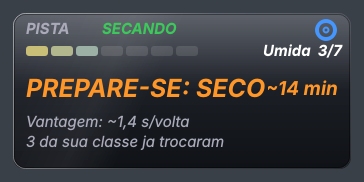
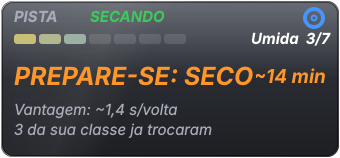
Atualiza prints do README e da documentacao para a 1.6.0
Claude-Session: https://claude.ai/code/session_012AaxQw3atEC5c8or6fjX6q

diff --git a/README.md b/README.md
@@ -17,11 +17,13 @@ Overlay gratuito e de código aberto para **iRacing** no Windows, com **24 janel
 | [`streamdeck/`](streamdeck) | Perfil para **Stream Deck XL**, biblioteca de ícones e gerador |
 | [`docs/`](docs) | Manual, guia do dash, guia do Stream Deck, arquitetura e histórico |
 
-## Novidades da 1.2.0: quatro overlays novos e a Telemetria unificada
+## Novidades da 1.6.0
 
-A janela **Telemetria** agora reúne tudo em uma só (rpm, marcha, pedais, volante e o gráfico de acelerador/freio com tempo ajustável, degraus de marcha e marcas de ABS/TC). Novos: **Luz do ABS**, **Luz do TC** (estimada), **Retorno à pista** (PARE / CEDA / LIVRE com os segundos até o carro de trás chegar) e **Estratégia de pneus** (chuva x seco). Veja o [manual](docs/MANUAL.md#13-telemetria-gráfico-de-pedais-novo-na-120) e o [CHANGELOG](CHANGELOG.md).
+**Central de configurações** (janela única para ligar/desligar painéis, ajustar aparência e atalhos), **Tendência de ritmo** (inclinação do ritmo, previsão da próxima volta e consistência), **Último contato**, **Entrada do pit**, minimapa rotativo mais fluido e novas janelas automáticas de bandeiras, tráfego e auxiliar.
 
-![Novos overlays](docs/imagens/overlay_novos_1_2.png)
+![Central de configurações](docs/imagens/central_inicio.png)
+
+![Janelas novas](docs/imagens/overlay_novos_1_6.png)
 
 ## Estilos visuais: Glass Fumê e Sport
 
